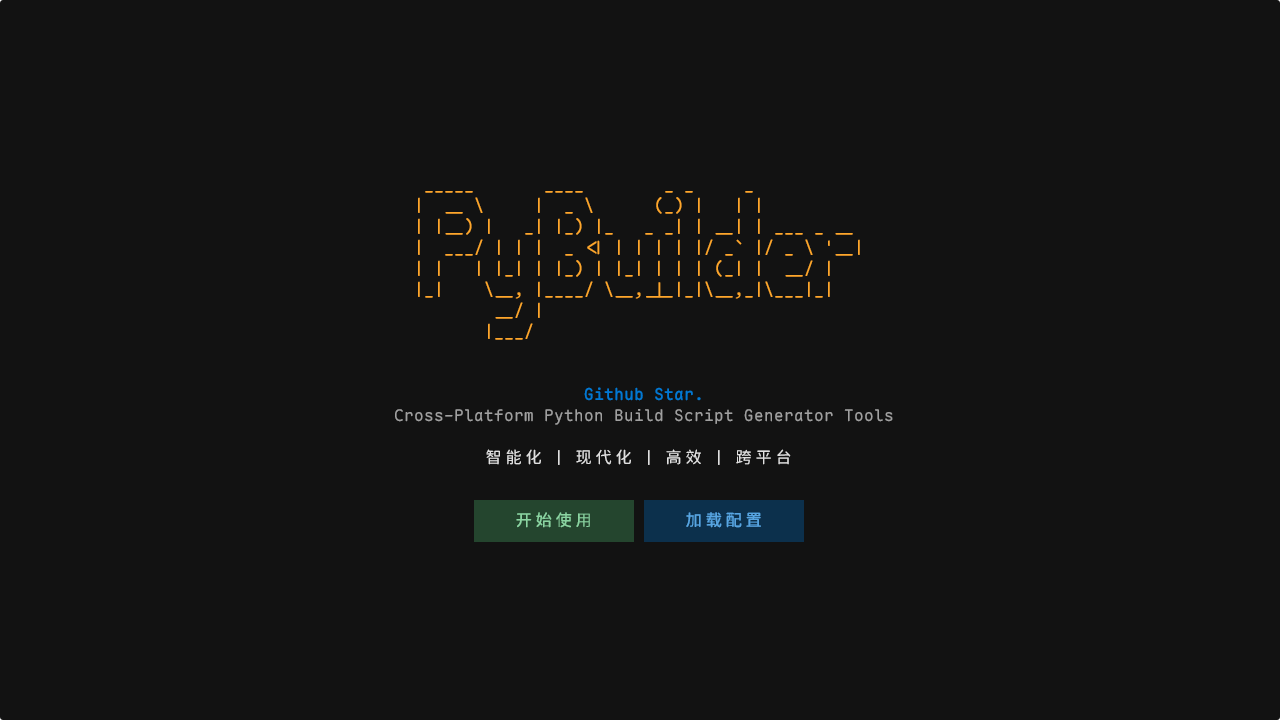
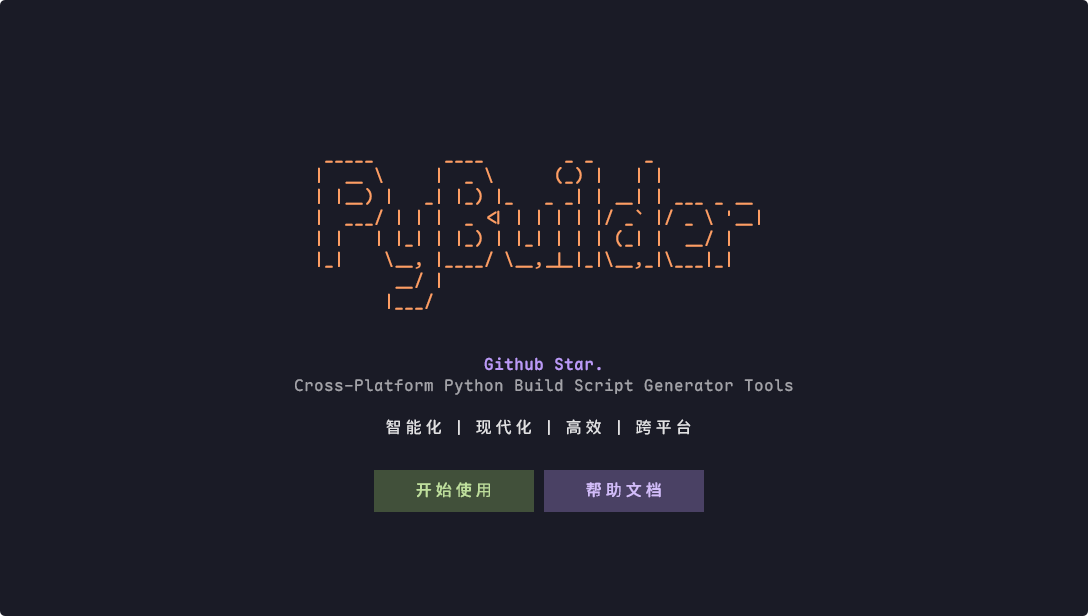
feat:增加帮助文档及界面

diff --git a/src/screens/help_screen.py b/src/screens/help_screen.py
@@ -1,0 +1,53 @@
+"""
+帮助文档屏幕
+"""
+
+from pathlib import Path
+from textual.app import ComposeResult
+from textual.screen import Screen
+from textual.containers import Container, Horizontal, VerticalScroll
+from textual.widgets import Static, Button, Markdown
+
+
+class HelpScreen(Screen):
+    """帮助文档屏幕"""
+
+    CSS_PATH = Path(__file__).parent.parent / "style" / "help_screen.tcss"
+
+    def compose(self) -> ComposeResult:
+        """创建帮助文档界面组件"""
+        with Container(id="help-container"):
+            # 内容容器
+            with VerticalScroll(id="help-content"):
+                yield Static("加载中...", id="help-loading")
+
+            # 返回按钮
+            with Horizontal(id="help-buttons"):
+                yield Button("返回", variant="primary", id="back-btn", flat=True)
+
+    def on_mount(self) -> None:
+        """挂载后加载文档"""
+        self.load_help()
+
+    def load_help(self) -> None:
+        """加载 Tutorial.md"""
+        project_root = Path(__file__).parent.parent.parent
+        try:
+            help_path = project_root / "docs" / "Tutorial.md"
+            if help_path.exists():
+                content = help_path.read_text(encoding="utf-8")
+                # 移除加载提示
+                loading = self.query_one("#help-loading", Static)
+                loading.remove()
+                # 添加 Markdown 内容
+                scroll = self.query_one("#help-content", VerticalScroll)
+                scroll.mount(Markdown(content, id="help-markdown"))
+            else:
+                self.query_one("#help-loading", Static).update("Tutorial.md 不存在")
+        except Exception as e:
+            self.query_one("#help-loading", Static).update(f"加载失败: {e}")
+
+    def on_button_pressed(self, event: Button.Pressed) -> None:
+        """处理按钮点击事件"""
+        if event.button.id == "back-btn":
+            self.app.pop_screen()

diff --git a/src/screens/welcome_screen.py b/src/screens/welcome_screen.py
@@ -54,9 +54,9 @@ class WelcomeScreen(Screen):
                 with Horizontal(classes="button-row"):
                     yield Button("开始使用", variant="success", id="start", flat=True)
                     yield Button(
-                        "加载配置",
+                        "帮助文档",
                         variant="primary",
-                        id="load",
+                        id="help",
                         flat=True,
                     )
 
@@ -72,6 +72,8 @@ class WelcomeScreen(Screen):
 
             self.app.push_screen(ProjectSelectorScreen())
 
-        elif button_id == "load":
-            self.app.notify("加载配置功能开发中...", severity="warning")
-            # TODO: 实现配置加载
+        elif button_id == "help":
+            # 跳转到帮助文档屏幕
+            from src.screens.help_screen import HelpScreen
+
+            self.app.push_screen(HelpScreen())

diff --git a/build_pyinstaller.py b/build_pyinstaller.py
@@ -59,6 +59,7 @@ def build():
         '--collect-submodules=textual',
         '--collect-data=pyfiglet',
         f'--add-data={os.path.join('src', 'style')}{data_separator}{os.path.join('src', 'style')}',
+        f'--add-data={'docs'}{data_separator}{'docs'}',
         ENTRY_FILE,
     ]
 

diff --git a/docs/Tutorial.md b/docs/Tutorial.md
@@ -1,0 +1,2 @@
+# 帮助文档.
+## 暂未编写
